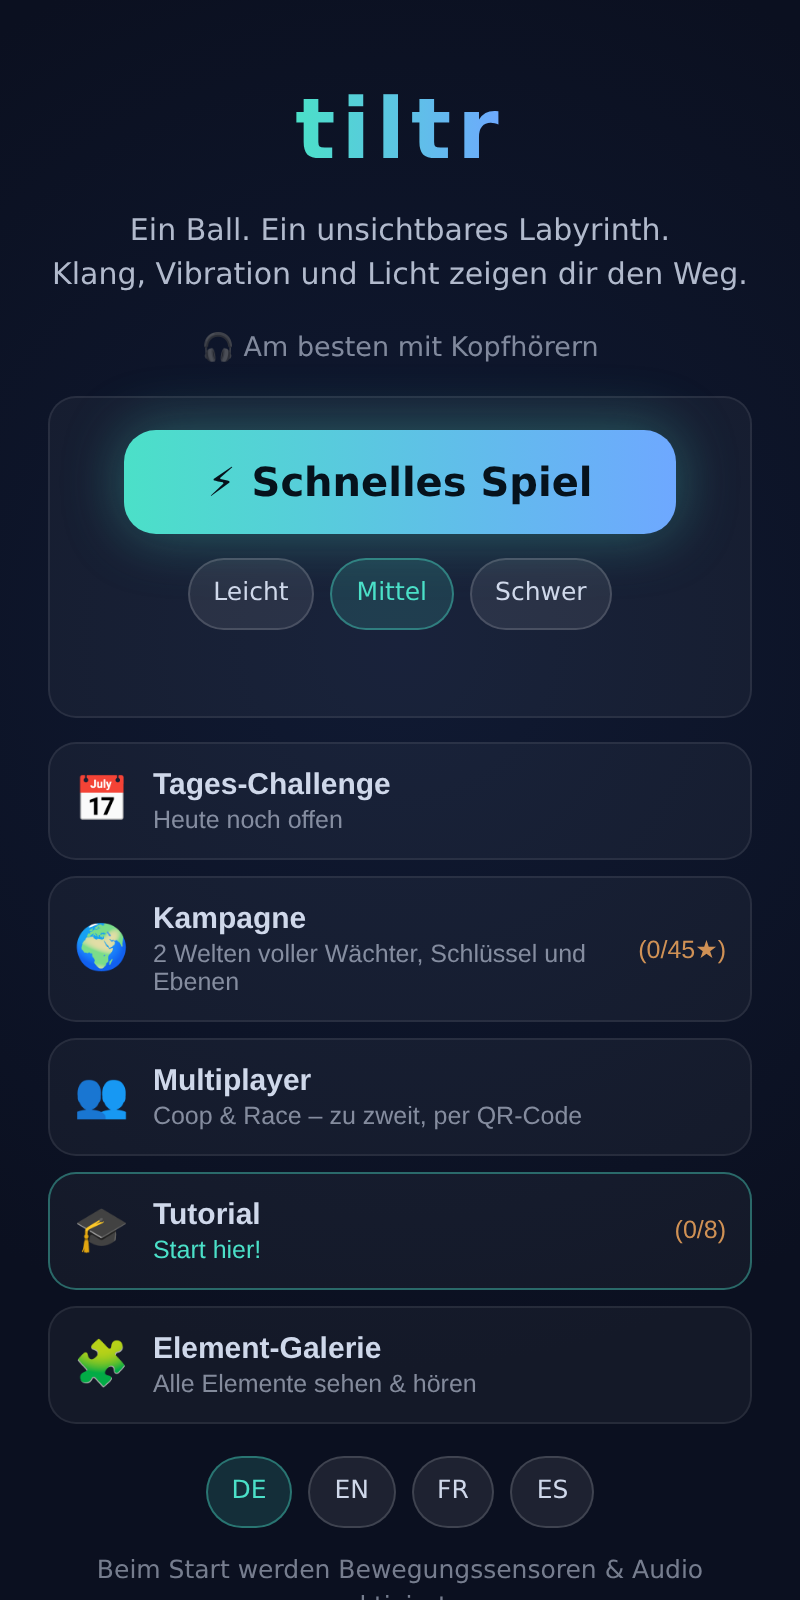
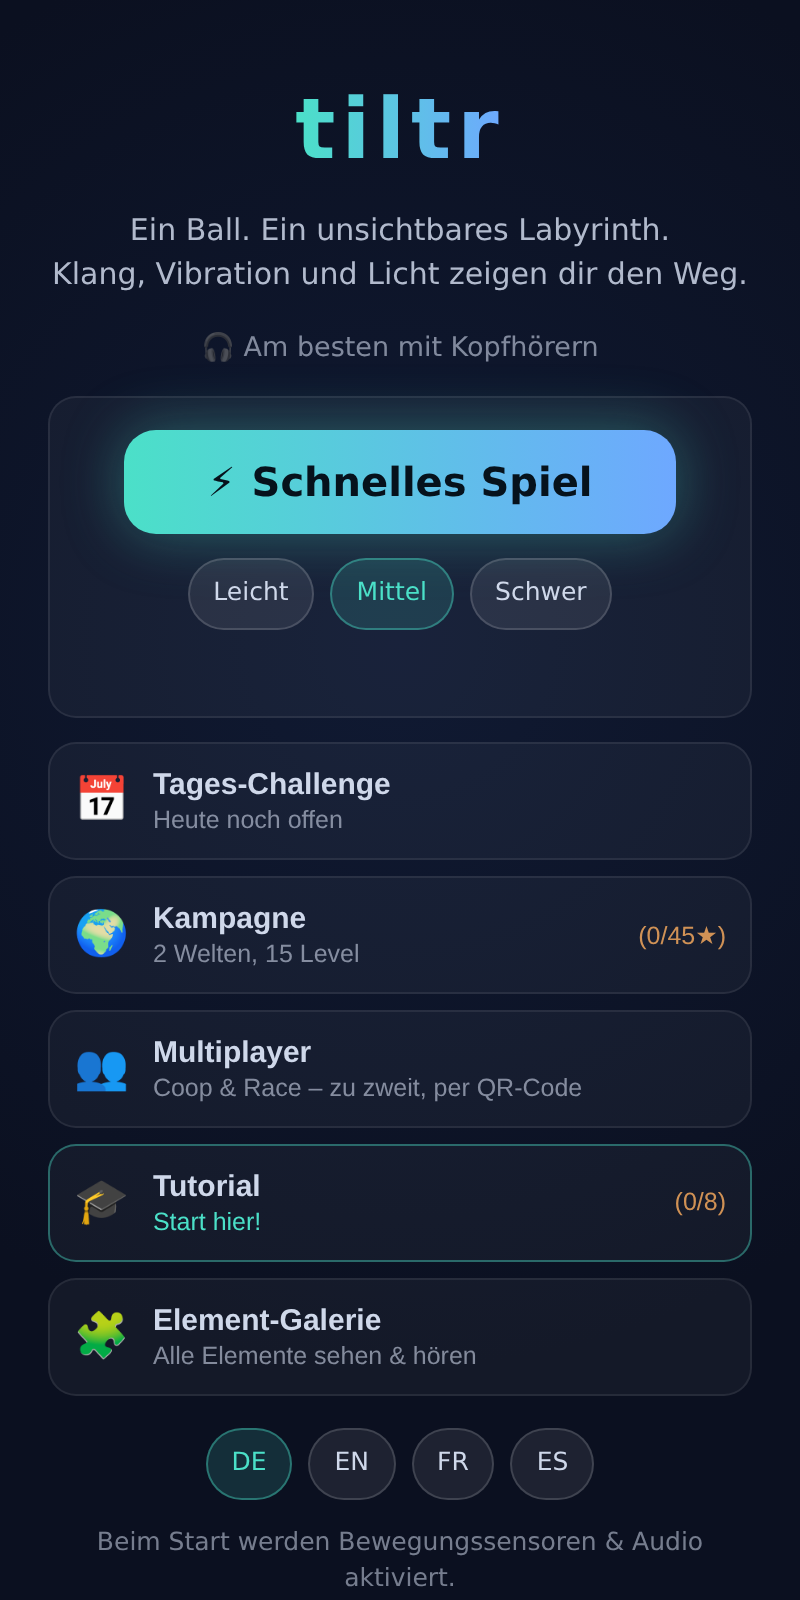
Feedback-Politur: nowrap, Debug-Unlock, Rotations-Fix, zufällige Starts, dunkler Grundton (v0.8.1)
- Buttons und Modus-Karten brechen nie mehr um: white-space nowrap auf .btn,
  Titel/Untertitel der Karten mit Ellipsis, Kampagnen-Untertitel gekürzt
  ("2 Welten, 15 Level" in allen vier Sprachen). Im HUD wird der Status
  links gekürzt, die Knöpfe rechts bleiben in einer Zeile.
- Debug-Ansicht (👁) ist jetzt versteckt und wird mit 5 Taps auf die
  Versionsnummer im Menü freigeschaltet (E2E-Check).
- Rotations-/PWA-Fix: window.resize feuert auf iOS teils vor dem Layout,
  das Canvas-Backing behielt die alte Größe – alles war verzerrt und in
  der installierten PWA blieb unten ein Streifen. Der Renderer beobachtet
  sein Element jetzt per ResizeObserver (+ visualViewport), Guard gegen
  0-Rects und No-op-Resizes; E2E dreht den Viewport mitten im Spiel und
  prüft, dass das Backing dem Rect folgt.
- Grundton: html/body und #game sind jetzt bg-deep – falls die Plattform
  doch einen Streifen neben dem Canvas zeigt, ist er dunkel wie das
  Spielfeld statt heller (DESIGN.md aktualisiert, E2E prüft die Farbe).
- Schnelles Spiel & Tages-Challenge: Start und Ziel liegen nicht mehr
  fest oben links/unten rechts, sondern werden seeded gewürfelt (mit
  Manhattan-Mindestabstand; Daily zusätzlich pro Ebene Ausgang weit weg
  von der Ankunft). Checkpoints liegen weiter auf dem Lösungsweg.
  E2E-Läufe 1/2 messen Bewegungen jetzt relativ und nutzen Seed 28,
  dessen Startzelle die Tastatur-Choreografie erlaubt.

Claude-Session: https://claude.ai/code/session_01E52a62JTicLzAVjx6YG1wg

diff --git a/src/levels/quick.ts b/src/levels/quick.ts
@@ -80,15 +80,30 @@ export function generateQuickLevel(seed: number, preset: Preset = 'normal'): Lev
   const mazeSeed = Math.floor(rng() * 0x7fffffff);
   const breathPeriod = p.breath.open + p.breath.closed + 2 * p.breath.ramp;
 
+  // Start & Ziel zufällig (seeded) statt immer oben links -> unten rechts;
+  // Mindestabstand (Manhattan) hält die Strecke lang, Fallback: Ecken.
+  const minDist = Math.max(cols, rows);
+  let start: [number, number] = [0, 0];
+  let goal: [number, number] = [cols - 1, rows - 1];
+  for (let i = 0; i < 80; i++) {
+    const s: [number, number] = [Math.floor(rng() * cols), Math.floor(rng() * rows)];
+    const g: [number, number] = [Math.floor(rng() * cols), Math.floor(rng() * rows)];
+    if (Math.abs(s[0] - g[0]) + Math.abs(s[1] - g[1]) >= minDist) {
+      start = s;
+      goal = g;
+      break;
+    }
+  }
+
   // Dasselbe Maze wie im Loader erzeugen, um Checkpoints auf den Lösungsweg zu legen.
   const cells = generateMaze(cols, rows, mulberry32(mazeSeed));
-  const path = solveMaze(cells, cols, rows);
+  const path = solveMaze(cells, cols, rows, { x: start[0], y: start[1] }, { x: goal[0], y: goal[1] });
   const cpCells: Array<[number, number]> = [
     [path[Math.floor(path.length / 3)]!.x, path[Math.floor(path.length / 3)]!.y],
     [path[Math.floor((2 * path.length) / 3)]!.x, path[Math.floor((2 * path.length) / 3)]!.y],
   ];
 
-  const forbidden = new Set<number>([0, (rows - 1) * cols + (cols - 1)]);
+  const forbidden = new Set<number>([start[1] * cols + start[0], goal[1] * cols + goal[0]]);
   for (const [x, y] of cpCells) forbidden.add(y * cols + x);
 
   const elements: ElementDef[] = cpCells.map((cell) => ({ type: 'checkpoint', cell, r: 30 }));
@@ -116,8 +131,8 @@ export function generateQuickLevel(seed: number, preset: Preset = 'normal'): Lev
         size: [cols, rows],
         maze: { seed: mazeSeed, carve: [], add: [], brittle: [], brittleChance: p.brittleChance, brittleHits: 3 },
         elements,
-        start: [0, 0],
-        goal: [cols - 1, rows - 1],
+        start,
+        goal,
       },
     ],
   };

diff --git a/index.html b/index.html
@@ -17,7 +17,10 @@
     html, body {
       height: 100%;
       overflow: hidden;
-      background: var(--bg, #0b1020);
+      /* Spielfeld-Ton als Grundfarbe: Falls die Plattform (installierte PWA,
+         Rotation, Overscroll) irgendwo einen Streifen neben dem Canvas zeigt,
+         ist er dunkel wie das Spielfeld – Screens bringen ihr eigenes --bg mit. */
+      background: var(--bg-deep, #05070f);
       color: var(--text, #cfd8ea);
       font-family: var(--font, system-ui, sans-serif);
       touch-action: pan-x pan-y;
@@ -28,7 +31,7 @@
     }
     /* width/height nötig: Canvas ist ein replaced element und streckt sich
        mit inset:0 allein NICHT; 100% bemisst sich bei fixed am Layout-Viewport. */
-    #game { position: fixed; inset: 0; width: 100%; height: 100%; display: block; touch-action: none; }
+    #game { position: fixed; inset: 0; width: 100%; height: 100%; display: block; touch-action: none; background: var(--bg-deep, #05070f); }
 
     #hud {
       position: fixed;
@@ -43,6 +46,9 @@
       opacity: 0.8;
     }
     #hud .btn { pointer-events: auto; margin-left: var(--space-2); }
+    /* Status links darf gekürzt werden, die Buttons rechts brechen nie um. */
+    #hud > span:first-child { min-width: 0; overflow: hidden; white-space: nowrap; text-overflow: ellipsis; }
+    #hud > span:last-child { flex-shrink: 0; white-space: nowrap; }
     #floor { color: var(--accent-2); }
     #pings { color: var(--accent); }
     #gems { color: var(--warning); }
@@ -282,7 +288,7 @@
     <span><b id="timer"></b> <span id="floor"></span> <span id="pings"></span> <span id="gems"></span> <span id="status"></span></span>
     <span>
       <button id="calibrateBtn" class="btn btn-ghost" data-i18n-title="hud.calibrate">⌖</button>
-      <button id="debugBtn" class="btn btn-ghost" data-i18n-title="hud.debug">👁</button>
+      <button id="debugBtn" class="btn btn-ghost hidden" data-i18n-title="hud.debug">👁</button>
       <button id="homeBtn" class="btn btn-ghost" data-i18n-title="hud.home">🏠</button>
     </span>
   </div>

diff --git a/src/levels/daily.ts b/src/levels/daily.ts
@@ -104,8 +104,9 @@ export function generateDailyLevel(date: string): LevelDef {
   const gemsPer = deal(p.gems);
   const guardsPer = deal(p.guards);
 
-  // Landepunkte der Transporter-Kette vorab würfeln (Ebene k -> k+1).
-  const landings: Array<[number, number]> = [[0, 0]];
+  // Landepunkte der Transporter-Kette vorab würfeln (Ebene k -> k+1);
+  // auch der Start auf Ebene 1 ist zufällig, nicht immer oben links.
+  const landings: Array<[number, number]> = [pickCell(rng, cols, rows, new Set())];
   for (let f = 1; f < p.floors; f++) {
     const forbidden = new Set<number>();
     landings.push(pickCell(rng, cols, rows, forbidden));
@@ -123,8 +124,13 @@ export function generateDailyLevel(date: string): LevelDef {
     // Ankunft auf einer tieferen Ebene ist automatisch ein Checkpoint.
     if (f > 0) elements.push({ type: 'checkpoint', cell: landing, r: 30 });
 
-    // Ausgang: Transporter hinab bzw. Ziel auf der letzten Ebene.
-    const exit = pickCell(rng, cols, rows, forbidden);
+    // Ausgang: Transporter hinab bzw. Ziel auf der letzten Ebene – mit
+    // Mindestabstand zur Ankunft, damit die Ebene wirklich bespielt wird.
+    let exit = pickCell(rng, cols, rows, forbidden);
+    for (let i = 0; i < 40; i++) {
+      if (Math.abs(exit[0] - landing[0]) + Math.abs(exit[1] - landing[1]) >= Math.max(cols, rows) - 1) break;
+      exit = pickCell(rng, cols, rows, forbidden);
+    }
     if (!isLast) {
       elements.push({ type: 'transporter', cell: exit, target: { floor: f + 1, cell: landings[f + 1]! }, r: 32 });
     }

diff --git a/src/render/renderer.ts b/src/render/renderer.ts
@@ -36,7 +36,15 @@ export class Renderer {
   constructor(private canvas: HTMLCanvasElement) {
     this.ctx = canvas.getContext('2d')!;
     this.resize();
+    // window.resize allein reicht nicht: Bei Rotation (und beim Einrichten des
+    // Viewports in der installierten PWA) feuert es teils BEVOR das Layout
+    // steht – das Backing behielte die alte Größe und alles wäre verzerrt.
+    // Der ResizeObserver meldet das echte Element-Rect nach dem Layout.
     window.addEventListener('resize', () => this.resize());
+    window.visualViewport?.addEventListener('resize', () => this.resize());
+    if (typeof ResizeObserver !== 'undefined') {
+      new ResizeObserver(() => this.resize()).observe(this.canvas);
+    }
   }
 
   resize(): void {
@@ -45,9 +53,14 @@ export class Renderer {
     // Layout-Viewport – auch in der installierten PWA der ganze Bildschirm,
     // wo innerHeight/100vh je nach Plattform danebenliegen können.
     const rect = this.canvas.getBoundingClientRect();
-    this.canvas.width = Math.round(rect.width * dpr);
-    this.canvas.height = Math.round(rect.height * dpr);
+    const w = Math.round(rect.width * dpr);
+    const h = Math.round(rect.height * dpr);
+    if (w <= 0 || h <= 0) return;
+    if (w === this.canvas.width && h === this.canvas.height && dpr === this.dpr) return;
+    this.canvas.width = w;
+    this.canvas.height = h;
     this.dpr = dpr;
+    // Folge-Kamera zentriert sich über follow() im nächsten Frame neu.
     if (this.worldW) this.computeScale();
   }
 

diff --git a/src/ui/theme.css b/src/ui/theme.css
@@ -89,6 +89,7 @@
   background: none;
   transition: transform var(--t-tap) ease-out;
   cursor: pointer;
+  white-space: nowrap; /* Button-Beschriftungen brechen nie um */
 }
 .btn:active {
   transform: scale(0.97);
@@ -174,8 +175,8 @@
 }
 .mode-item .mode-icon { font-size: 22px; flex-shrink: 0; }
 .mode-item .mode-text { flex: 1; min-width: 0; display: flex; flex-direction: column; gap: 2px; }
-.mode-item .mode-title { font-size: var(--fs-body); font-weight: 600; }
-.mode-item .mode-sub { font-size: var(--fs-small); opacity: 0.6; }
+.mode-item .mode-title { font-size: var(--fs-body); font-weight: 600; white-space: nowrap; overflow: hidden; text-overflow: ellipsis; }
+.mode-item .mode-sub { font-size: var(--fs-small); opacity: 0.6; white-space: nowrap; overflow: hidden; text-overflow: ellipsis; }
 .mode-item .mode-meta { font-size: var(--fs-small); opacity: 0.8; color: var(--warning); white-space: nowrap; }
 /* Empfehlung für Neue (Tutorial noch offen): Teal-Rand wie .chip.active */
 .mode-item.suggest { border: 1px solid rgba(75, 224, 200, 0.4); }

diff --git a/src/app.ts b/src/app.ts
@@ -325,6 +325,15 @@ calibrateBtn.addEventListener('click', () => input.calibrate());
 debugBtn.addEventListener('click', () => {
   debug = !debug;
 });
+
+// Debug-Ansicht ist versteckt: 5 Taps auf die Versionsnummer schalten sie frei.
+let versionTaps = 0;
+$('version').addEventListener('click', () => {
+  if (!debugBtn.classList.contains('hidden')) return;
+  if (++versionTaps < 5) return;
+  debugBtn.classList.remove('hidden');
+  $('version').textContent += ' · 🔧';
+});
 homeBtn.addEventListener('click', showMenu);
 
 window.addEventListener('resize', () => renderer.resize());

diff --git a/src/i18n/fr.ts b/src/i18n/fr.ts
@@ -13,7 +13,7 @@ export const fr: Dict = {
   'menu.daily.done': 'Aujourd’hui : {time}',
   'menu.daily.streak': ' · 🔥 {n} jours',
   'menu.campaign': 'Campagne',
-  'menu.campaign.sub': '2 mondes pleins de gardiens, de clés et d’étages',
+  'menu.campaign.sub': '2 mondes, 15 niveaux',
   'menu.mp': 'Multijoueur',
   'menu.mp.sub': 'Coop & course – à deux, par QR code',
   'menu.tutorial': 'Tutoriel',

diff --git a/src/i18n/es.ts b/src/i18n/es.ts
@@ -13,7 +13,7 @@ export const es: Dict = {
   'menu.daily.done': 'Hoy: {time}',
   'menu.daily.streak': ' · 🔥 {n} días',
   'menu.campaign': 'Campaña',
-  'menu.campaign.sub': '2 mundos llenos de guardianes, llaves y pisos',
+  'menu.campaign.sub': '2 mundos, 15 niveles',
   'menu.mp': 'Multijugador',
   'menu.mp.sub': 'Coop y carrera – para dos, por código QR',
   'menu.tutorial': 'Tutorial',

diff --git a/src/i18n/en.ts b/src/i18n/en.ts
@@ -13,7 +13,7 @@ export const en: Dict = {
   'menu.daily.done': 'Today: {time}',
   'menu.daily.streak': ' · 🔥 {n} days',
   'menu.campaign': 'Campaign',
-  'menu.campaign.sub': '2 worlds full of guards, keys and floors',
+  'menu.campaign.sub': '2 worlds, 15 levels',
   'menu.mp': 'Multiplayer',
   'menu.mp.sub': 'Co-op & race – two players, via QR code',
   'menu.tutorial': 'Tutorial',

diff --git a/src/i18n/de.ts b/src/i18n/de.ts
@@ -16,7 +16,7 @@ export const de = {
   'menu.daily.done': 'Heute: {time}',
   'menu.daily.streak': ' · 🔥 {n} Tage',
   'menu.campaign': 'Kampagne',
-  'menu.campaign.sub': '2 Welten voller Wächter, Schlüssel und Ebenen',
+  'menu.campaign.sub': '2 Welten, 15 Level',
   'menu.mp': 'Multiplayer',
   'menu.mp.sub': 'Coop & Race – zu zweit, per QR-Code',
   'menu.tutorial': 'Tutorial',

diff --git a/docs/DESIGN.md b/docs/DESIGN.md
@@ -30,7 +30,8 @@ benutzt **Tokens und Komponenten-Klassen, keine Magic Values**:
 | Token | Wert | Verwendung |
 |---|---|---|
 | `--bg-deep` | `#05070f` | Spielfeld-Hintergrund (Canvas) |
-| `--bg` | `#0b1020` | App-/Body-Hintergrund, Vollflächen-Screens |
+| `--bg` | `#0b1020` | Vollflächen-Screens (Panels, Menü-Verlauf) |
+| Body-Grundton | `--bg-deep` | html/body und `#game`: Falls die Plattform (installierte PWA, Rotation) einen Streifen neben dem Canvas zeigt, ist er dunkel wie das Spielfeld |
 | `--bg-raised` | `#101a33` | Verlaufsmitte des Start-Overlays |
 | `--bg-panel` | `#16223f` | Banner/Toasts |
 | Panels/Karten | `rgba(255,255,255,0.04)` + `--border-subtle` | `.panel` |
